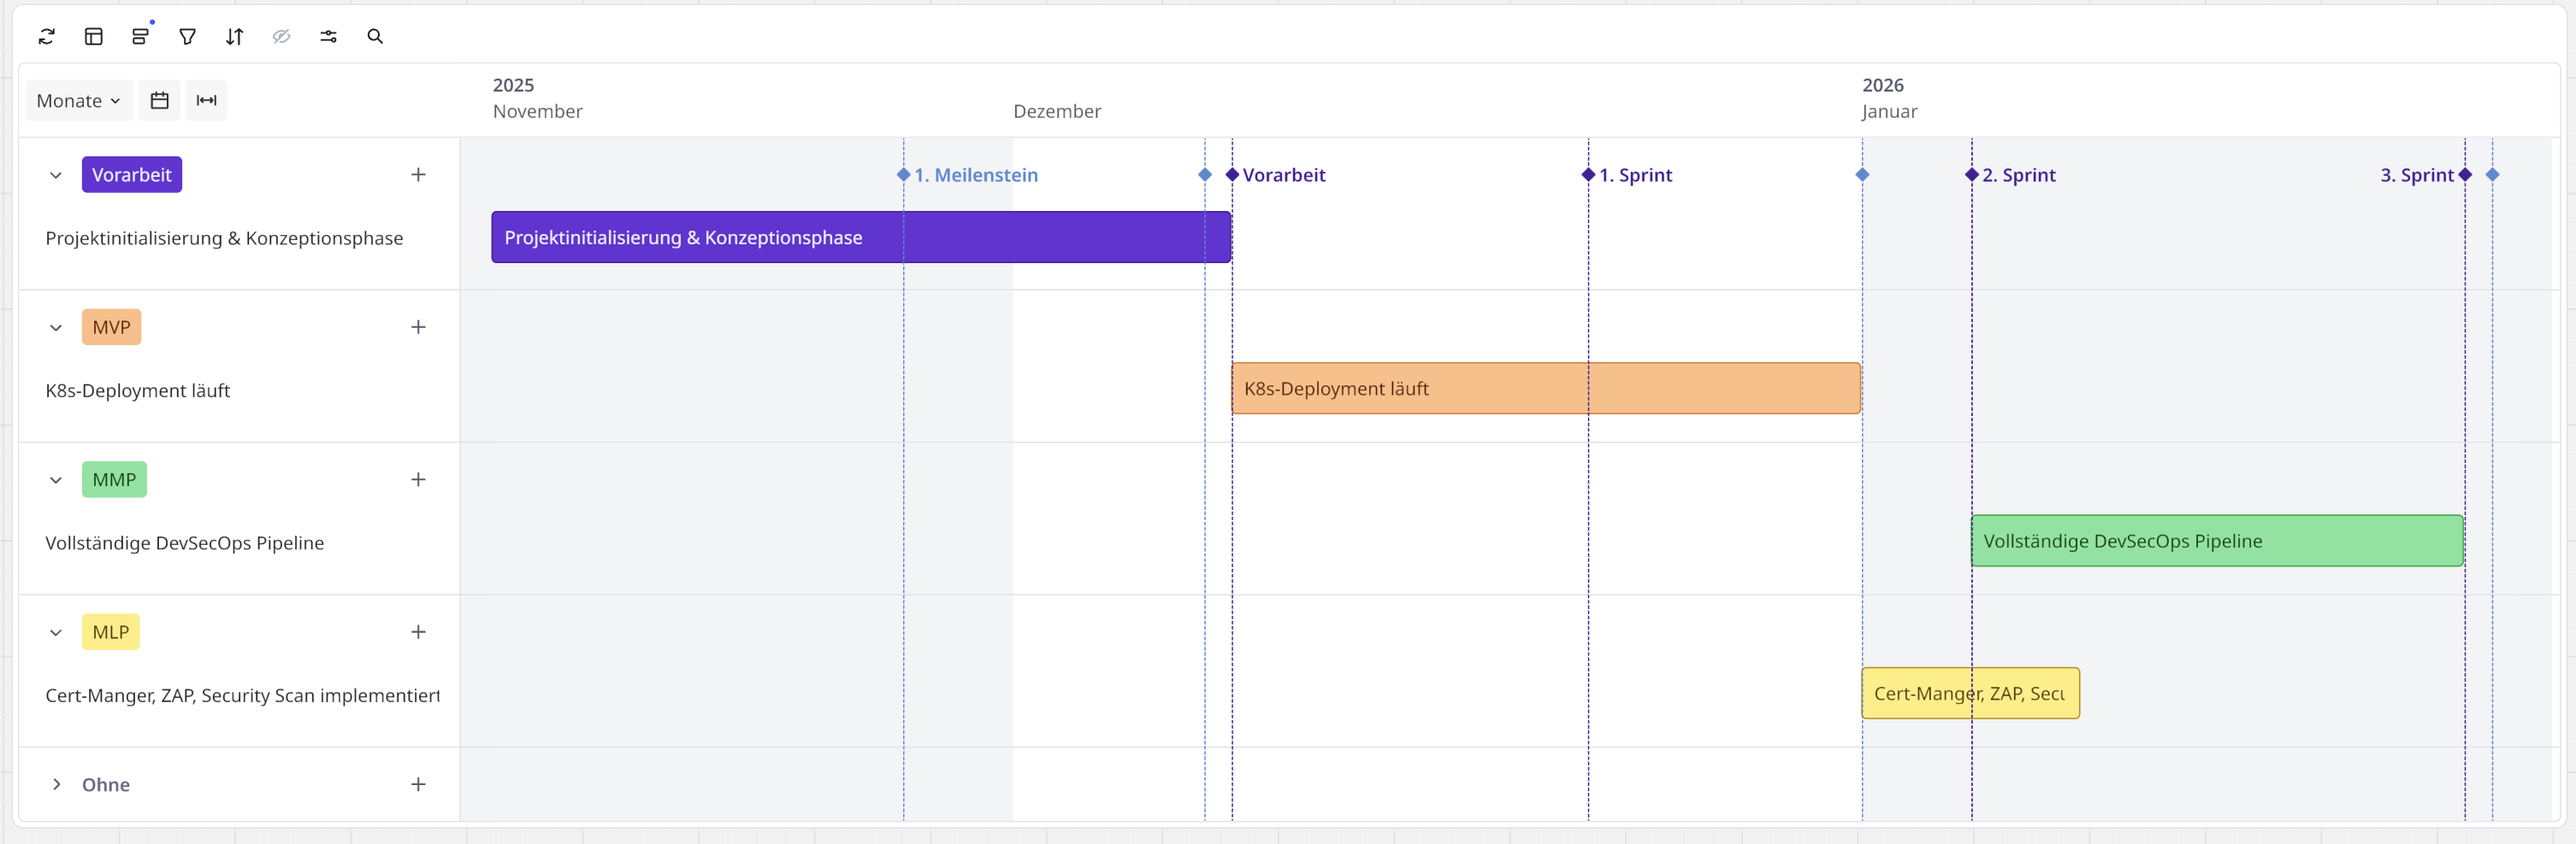
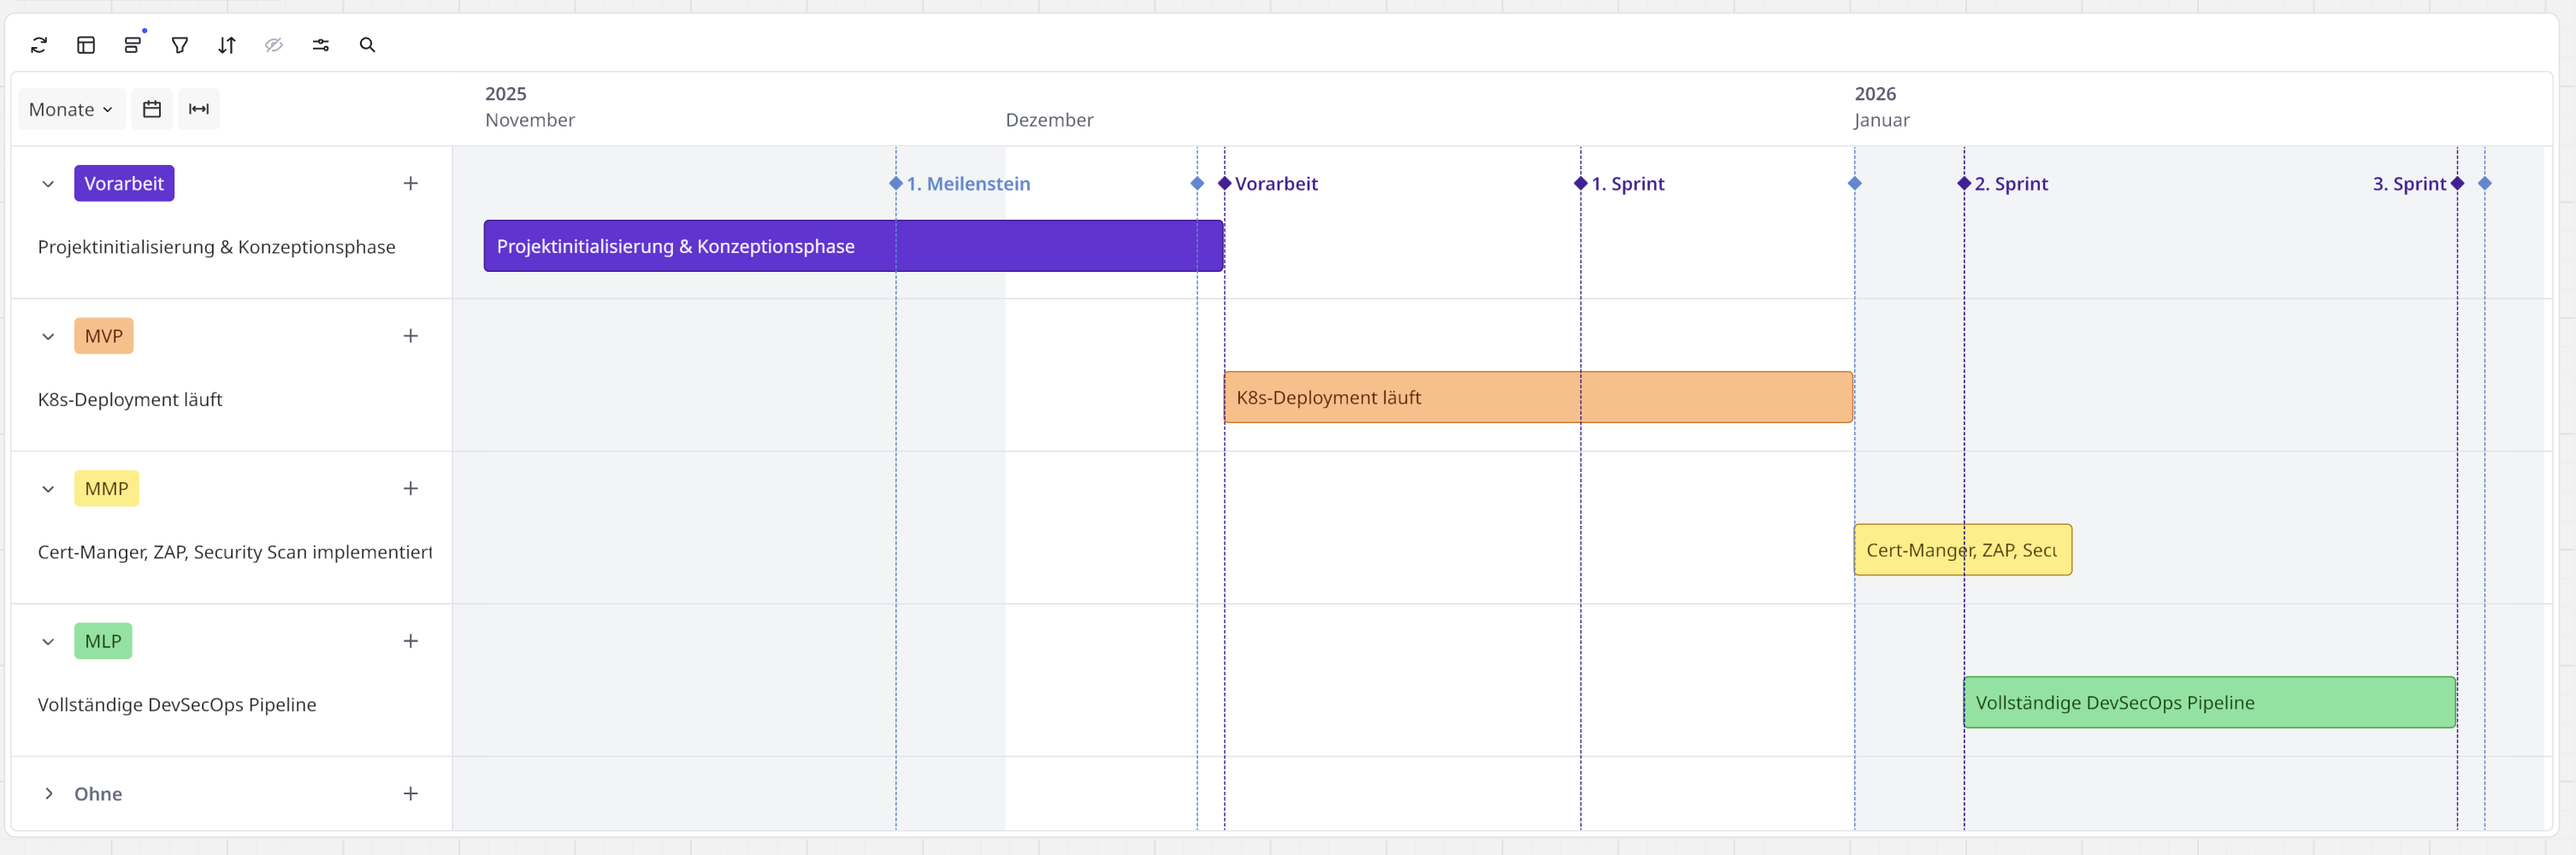
doku: update mvp, mmp, mlp

diff --git a/README.md b/README.md
@@ -244,9 +244,23 @@ Beachte diesen Punkt mit dem GitOps Workflow Konzept. MVP zusammen mit Git Tags/
 
 ### Minimum Viable Product (MVP)
 
+Das MVP ist die Version eines Produkts, welche die Kernfunktionalitäten des Produkts beinhaltet, um die eigene Idee zu validieren.
+
+Der MVP umfasst eine lauffähige Webapplikation, die über eine CI-Pipeline automatisiert geprüft (Linting, SAST, SCA) und als Container-Image gebaut wird. Die Anwendung kann in Kubernetes deployt werden und ist funktional erreichbar, jedoch mit minimaler Automatisierung und ohne umfassende Laufzeitsicherheit.
+
 ### Minimum Marketable Product (MMP)
 
+Das MMP soll Features abdecken, die einen Mehrwert für den Nutzer bzw. Kunden stiften und wofür diese ggf. sogar schon bezahlen würden. In Summe sollte dieses also bereits vermarktungsfähig sein.
+
+Der MMP erweitert den MVP um eine vollständige DevSecOps-Pipeline: Container-Images werden versioniert, sicherheitsgeprüft (Trivy) und mittels GitOps (Argo CD) automatisiert in Kubernetes ausgerollt. HTTPS ist integriert und der Deployment-Prozess ist reproduzierbar, stabil und für einen realen Projekteinsatz geeignet.
+
 ### Minimum Lovable Product (MLP)
+
+Das MLP soll also bei dem Benutzer das Gefühl erwecken, dieses Produkt unbedingt zu benötigen und stellt damit die nutzerzentrierte Sichtweise in den Vordergrund. Das Ziel ist, dass sich der Nutzer in das Produkt „verliebt“
+
+Der MLP ergänzt den MMP um kontinuierliche Laufzeitsicherheitsprüfungen (DAST mit OWASP ZAP), automatisierte tägliche Scans sowie klare Transparenz über Sicherheitsbefunde. Zusätzlich sorgen saubere Versionierung, GitOps-Transparenz und Security-Reports dafür, dass das System nicht nur funktioniert, sondern auch wartbar, nachvollziehbar und vertrauenswürdig ist.
+
+
 
 ### Projektinitialisierung 12.11 - 08.12.2025
 
@@ -291,11 +305,11 @@ Beachte diesen Punkt mit dem GitOps Workflow Konzept. MVP zusammen mit Git Tags/
 
 | Story                               | Akzeptanzkriterium                       | Points |
 | :---------------------------------- | :--------------------------------------- | :----- |
-| Lint-Checker implementieren         | [SEM04-45](https://tinyurl.com/3sj8kkrh) | 2      |
-| TLS-Zerti implementieren            | [SEM04-34](https://tinyurl.com/4a5js6ad) | 4      |
-| Snyk scan SAST & SCA implementieren | [SEM04-35](https://tinyurl.com/fhrusvu9) | 5      |
-| Trivy Scan mit SARIF umsetzen       | [SEM04-35](https://tinyurl.com/5ecnyus4) | 4      |
-| SemVersioning Logik umsetzen        | [SEM04-35](https://tinyurl.com/3zb3xunf) | 4      |
+| Lint-Checker implementieren         | [SEM04-41](https://tinyurl.com/3sj8kkrh) | 2      |
+| TLS-Zerti implementieren            | [SEM04-42](https://tinyurl.com/4a5js6ad) | 4      |
+| Snyk scan SAST & SCA implementieren | [SEM04-43](https://tinyurl.com/fhrusvu9) | 5      |
+| Trivy Scan mit SARIF umsetzen       | [SEM04-44](https://tinyurl.com/5ecnyus4) | 4      |
+| SemVersioning Logik umsetzen        | [SEM04-45](https://tinyurl.com/3zb3xunf) | 4      |
 
 > [!NOTE]
 > **Sprint Goal**: Am Ende des Sprints wird die Anwendung automatisiert als sicheres Container-Image gebaut und versioniert.
@@ -304,12 +318,12 @@ Beachte diesen Punkt mit dem GitOps Workflow Konzept. MVP zusammen mit Git Tags/
 
 ![03sprint_board](image/03sprint_board.png)
 
-| Story                                   | Akzeptanzkriterium                    | Points |
-| :-------------------------------------- | :------------------------------------ | :----- |
-| DAST implementation                     | [SEM04-32](https://shorturl.at/voJ7B) | 5      |
-| GitOps verification pipeline erstellen  | [SEM04-34](https://shorturl.at/voJ7B) | 5      |
-| Lösung für den Build in MAIN erarbeiten | [SEM04-35](https://shorturl.at/voJ7B) | 4      |
-| Testing                                 | [SEM04-35](https://shorturl.at/voJ7B) | 4      |
+| Story                                   | Akzeptanzkriterium                       | Points |
+| :-------------------------------------- | :--------------------------------------- | :----- |
+| DAST implementation                     | [SEM04-46](https://tinyurl.com/546453wc) | 5      |
+| GitOps verification pipeline erstellen  | [SEM04-47](https://tinyurl.com/2s35nxkw) | 5      |
+| Lösung für den Build in MAIN erarbeiten | [SEM04-48](https://tinyurl.com/9ucwy3jz) | 4      |
+| Testing                                 | [SEM04-49](https://tinyurl.com/yzjhwayj) | 4      |
 
 > [!NOTE]
 > **Sprint Goal**: Am Ende des Sprints ist die Anwendung vollständig GitOps-basiert in Kubernetes deployt und zur Laufzeit testbar.
